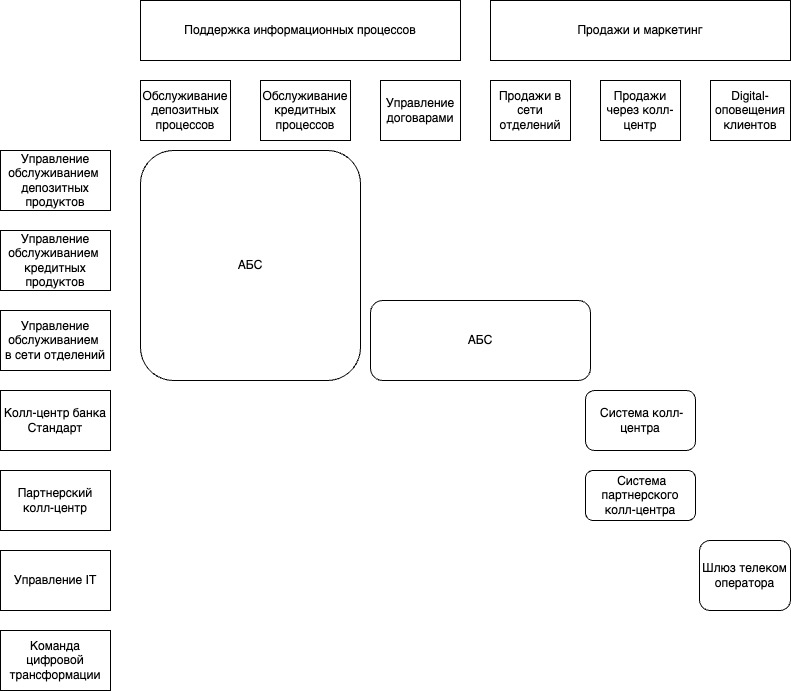
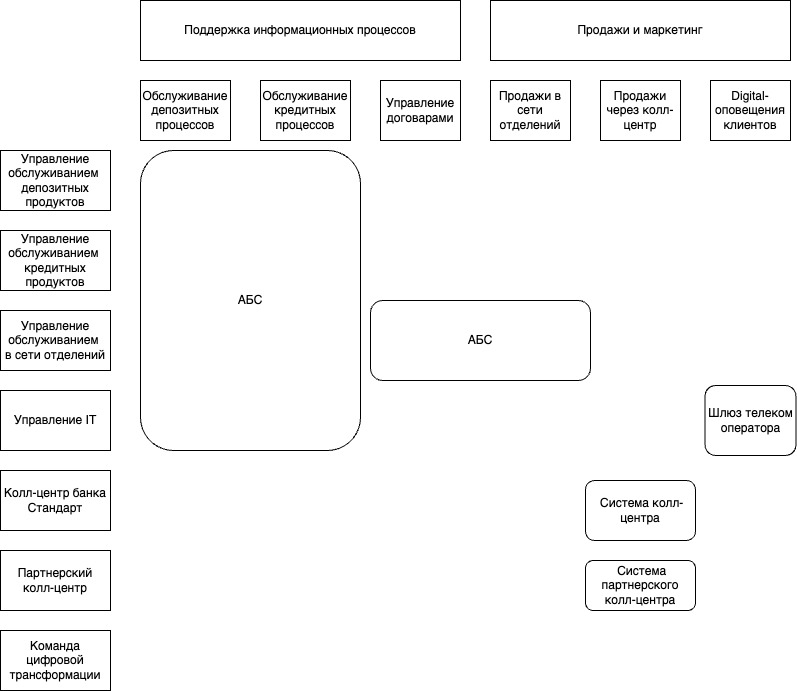
bug fix

diff --git a/Task3/ADR.md b/Task3/ADR.md
@@ -7,7 +7,7 @@
 |**№**|**Действующие лица или системы**|**Use Case**|**Описание**|
 | :-: | :- | :- | :- |
 |1|Клиент, Интернет-банкинг, АБС, Сотрудник бэк-офиса|1. Клиент заходит на сайт/приложение интернет банкинга с целью узнать информацию о ставках депозита. 2. Сервис Депозит (Интернет-банкинг) делает REST запрос в сервис процентные ставки (АБС). 3. Сервис процентные ставки обрабатывает excel-файл, который обновляют сотрудники бек офиса каждый день. 4. Обработанные из excel-файла ставки кешируются с временем жизни до 24 часов. 5. Ответ от Сервиса процентных ставок также кешируется в сервисе Депозит (интернет-банкинг) до 24 часов | F1, F3, F4, F7|
-|2|Клиент, Интернет-банкинг, АБС, Сотрудник бэк-офиса|1. Клиент заходит на сайт/приложение интернет банкинга с целью открыть депозит - вводит сумму депозита. ФИО и другие атрибуты указанные при регистрации подтягиваются автоматически. Нажимает кнопку - открыть. Данные передаются по защищенному каналу с испоьзованием TLS/SSL 2. Сервис Депозит добавляет запрос в kafka. 3. Сервис АБС-Депозит считывает запрос на открытие депозита и отправляет в СМС-телеком-шлюз запрос на подтверждение. 4. СМС-шлюз через Телеком-оператора отправляет СМС с подтверждением открытия. 5. Клиент подтверждает открытие - вводит код из СМС, что отправляется в сервис Депозит. 6. Сервис депозит добавляет подтверждение в kafka. 7. Сервис АБС-Депозит сравнивает СМС код подтверждения и в случае успеха добавляет заявку на открытие депозита в abc-bd. 7. Сотрудник бек-офиса обрабатывает эти заявки. 8. Отправляется СМС об открытии депозита.| F2, F5, F6, F8|
+|2|Клиент, Интернет-банкинг, АБС, Сотрудник бэк-офиса|1. Клиент заходит на сайт/приложение интернет банкинга с целью открыть депозит - вводит сумму депозита. ФИО и другие атрибуты указанные при регистрации подтягиваются автоматически. Нажимает кнопку - открыть. Данные передаются по защищенному каналу с испоьзованием TLS/SSL (TLS версвии > 1.2) 2. Сервис Депозит добавляет запрос в kafka. 3. Сервис АБС-Депозит считывает запрос на открытие депозита и отправляет в СМС-телеком-шлюз запрос на подтверждение. 4. СМС-шлюз через Телеком-оператора отправляет СМС с подтверждением открытия. 5. Клиент подтверждает открытие - вводит код из СМС, что отправляется в сервис Депозит. 6. Сервис депозит добавляет подтверждение в kafka. 7. Сервис АБС-Депозит сравнивает СМС код подтверждения и в случае успеха добавляет заявку на открытие депозита в abc-bd. 7. Сотрудник бек-офиса обрабатывает эти заявки. 8. Отправляется СМС об открытии депозита.| F2, F5, F6, F8|
 ### <a name="_u8xz25hbrgql"></a>**Нефункциональные требования**
 Опишите здесь нефункциональные требования и архитектурно-значимые требования.
 
@@ -15,6 +15,7 @@
 | :-: | :- |
 |R1| Защита персональных данных при отправки заявки онлайн. Шифрование чувствительных данных при передаче и хранении.|
 |R2-3| Доступность 99.9% и работа 24/7 |
+|R4| До 1000 RPS |
 |P1 | Отклик по всем операциям |
 | P2  | Добавить возможность горизнтального масштабирования |
 | P3  | Перейти от монолита к микросервисной архитектруре                               |
@@ -27,7 +28,7 @@ Context diagram: ![context](context_diagram.jpg)
 
 Container diagramm: ![container](container_diagram.jpg)
 
-Для обеспечения безопасности передачи данных от клиента - используется безопасные каналы передачи данных с использованием TLS/SSL. При хранении данных в БД персональные данные также шифруются. Для обеспечения высокой доступности и масштабирования - используется kafka. Также из-за текущей спицифики обработки запросов на открытие депозитов и ограничений на нагрузку на АБС - используются ассинхронные запросы. Для уменьшения нагрузки на АБС - ответ от АБС при получении ставок депозитов кешируется с помощью Cache-aside до 24 часов. Таким образом можно поддерживать высокий отклик системы. При выборе технологий сервисов опирался на существующий стек технологий. За счет наличия резервного ЦОДа можно поддерживать вертикальное масштабирование. Интернет-банкинг развернут на платформе поставщика и она поддерживает микросервисную архитектуру. В текущей архитектуре заявки также обрабатывает бэк-офис.
+Для обеспечения безопасности передачи данных от клиента - используется безопасные каналы передачи данных с использованием TLS/SSL (TLS версии > 1.2). При хранении данных в БД персональные данные также шифруются. Для обеспечения высокой доступности и масштабирования - используется kafka. Также из-за текущей спицифики обработки запросов на открытие депозитов и ограничений на нагрузку на АБС - используются ассинхронные запросы. Для уменьшения нагрузки на АБС - ответ от АБС при получении ставок депозитов кешируется с помощью Cache-aside до 24 часов. Таким образом можно поддерживать высокий отклик системы. При выборе технологий сервисов опирался на существующий стек технологий. За счет наличия резервного ЦОДа можно поддерживать вертикальное масштабирование. Интернет-банкинг развернут на платформе поставщика и она поддерживает микросервисную архитектуру. В текущей архитектуре заявки также обрабатывает бэк-офис.
 ### <a name="_bjrr7veeh80c"></a>**Альтернативы**
 Альтернативы: 
 - Использовать Active-MQ. 

diff --git a/Task4/ADR.md b/Task4/ADR.md
@@ -6,7 +6,7 @@
 
 |**№**|**Действующие лица или системы**|**Use Case**|**Описание**|
 | :-: | :- | :- | :- |
-|3|Клиент, АБС, Система кол-центра, Система партнерского кол-центра, Сотрудник бэк-офиса|1. Клиент звонит в 1 из колл-центров - кол-центр банка или партнерский кол-центра. 2. Сотрудники кол-центра смотрят в excel-file в google docs по процентным ставкам с правами только на чтение. 3. Сотрудник бэк офиса раз в сутки вычисляет процентные ставки и загружает excel file в Сервис Процентные ставки. 4. Сервис Процентные ставки загружает файл с процентными ставками в google docs и устанавливает права доступа на чтение. | |
+|3|Клиент, АБС, Система кол-центра, Система партнерского кол-центра, Сотрудник бэк-офиса|1. Сотрудник бэк офиса раз в сутки вычисляет процентные ставки и загружает excel file в Сервис Процентные ставки. 2. Сервис Процентные ставки загружает файл с процентными ставками в DMZ по SFTP. 3. Сотрудник кол-центра скачивает файл с процентными ставками из DMZ по SFTP 4. Клиент звонит в 1 из колл-центров - кол-центр банка или партнерский кол-центра. 5. Сотрудники кол-центра консулььтируют клиента согласно скаченному файлу. | |
 ### <a name="_u8xz25hbrgql"></a>**Нефункциональные требования**
 Опишите здесь нефункциональные требования и архитектурно-значимые требования.
 
@@ -19,14 +19,14 @@ Context diagram: ![context](context_diagram.jpg)
 
 Container diagramm: ![container](container_diagram.jpg)
 
-В каждом кол-центре есть очередь звонков и в случае перегрузки кол-центра автоответчик говорит о размере очереди и предлагает обратиться в партнерский кол-центр. Так как информация по текущим актуальным ставкам - общедоступная информация, то эту информацию можно хранить в открытых источниках и пользоваться облачными бесплатными сервисами такими как google docs. Для того, чтобы сервис процентных ставок не выложил в открытый доступ какую-либо персональную информацию, что может присутствовать в файле, то этот сервис читает загружаемый excel file сотрудником бэк офиса и извлекает информацию из файла по заданному шаблону, а затем формирует excel file и загружает на google docs с правами только на чтение.
+В каждом кол-центре есть очередь звонков и в случае перегрузки кол-центра автоответчик говорит о размере очереди и предлагает обратиться в партнерский кол-центр. Так как нет возможности получать информацию по процентным ставкам через API, то доступ осуществляется по SFTP к DMZ. Для того, чтобы сервис процентных ставок не выложил в DMZ какую-либо персональную информацию из внутреннего контура АБС, что может присутствовать в файле, то этот сервис читает загружаемый excel file сотрудником бэк офиса и извлекает информацию из файла по заданному шаблону, а затем формирует excel file и загружает в DMZ по SFTP.
 ### <a name="_bjrr7veeh80c"></a>**Альтернативы**
 Альтернативы: 
 - Отправлять файл по почте всем сотрудникам бэк офиса.
-- Написать сервис, который будет загружать файл по FTP, или добавить получение инф-ции по API.
+- Использовать google docs.
 
 
 **Недостатки, ограничения, риски**
 
 - Нужно будет поддерживать в актуальном состоянии список пользователей, кому отправлять файл.
-- Данное решение по трудозатратам будет более дорогостоющее и сложно будет поддерживать в актуальном состоянии файл со ставками, если инициатор запроса на скачивание будет сотрудник кол-центра.
+- Использование открытых сервисов, таких как google docs - не безопасно и тяжело (невозможно) будет согласовать это решение со специалистом информационной безопасности.

diff --git a/Task2/FURPS.md b/Task2/FURPS.md
@@ -16,6 +16,7 @@
 | R1  | Защита персональных данных при отправки заявки онлайн. Шифрование чувствительных данных при передаче и хранении.                                |              |
 | R2  | Круглосуточная работоспособность 24/7 всех сервисов|              |
 | R3  | Доступность 99.9% |              |
+| R4  | Способность выдерживать до 1000 RPS |              |
 | P   | Производительность (Performance)   |              |
 | P1  | Отклик по всем операциям ~100мс                                |              |
 | P2  | Добавить возможность горизнтального масштабирования | Желательно             |
